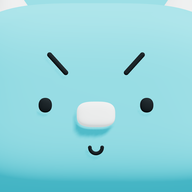
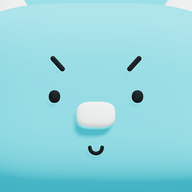
새 얼굴 깨두로 앱 아이콘·파비콘·링크 미리보기 다시 만듦 (공개 사이트 반영 대기)
Claude-Session: https://claude.ai/code/session_01XV2fnjBPvagJZXAqjhz2jr

diff --git a/sw.js b/sw.js
@@ -1,5 +1,5 @@
 // 오프라인에서도 열리도록: 처음 받은 파일(페이지·3D 엔진·글꼴)을 저장해 두고, 새 버전이 있으면 다음 방문 때 갱신
-const CACHE='sonssies-v18';
+const CACHE='sonssies-v19';
 const CORE=['./','./index.html','./manifest.webmanifest','./icon-192.png','./icon-512.png'];
 self.addEventListener('install',e=>{e.waitUntil(caches.open(CACHE).then(c=>c.addAll(CORE)));self.skipWaiting()});
 self.addEventListener('activate',e=>{e.waitUntil(caches.keys().then(ks=>Promise.all(ks.filter(k=>k!==CACHE).map(k=>caches.delete(k)))));self.clients.claim()});

diff --git a/tools/build_site.py b/tools/build_site.py
@@ -35,15 +35,15 @@ head='''<!doctype html>
 <meta name="theme-color" content="#e4ebeb" media="(prefers-color-scheme: light)">
 <meta name="theme-color" content="#141a1c" media="(prefers-color-scheme: dark)">
 <link rel="manifest" href="manifest.webmanifest">
-<link rel="icon" href="favicon.ico?v=2" sizes="any"><link rel="icon" href="favicon.png?v=2" type="image/png">
-<link rel="apple-touch-icon" href="apple-touch-icon.png?v=4">
+<link rel="icon" href="favicon.ico?v=3" sizes="any"><link rel="icon" href="favicon.png?v=3" type="image/png">
+<link rel="apple-touch-icon" href="apple-touch-icon.png?v=5">
 <meta name="apple-mobile-web-app-capable" content="yes">
 <meta name="apple-mobile-web-app-title" content="Sonssies">
 <meta property="og:type" content="website">
 <meta property="og:url" content="https://sonssies.com/">
 <meta property="og:title" content="Sonssies - 영혼의 단짝, 손시 만들기">
 <meta property="og:description" content="나만의 손시를 깨우고, 삶의 여정을 함께 나아가 보세요.">
-<meta property="og:image" content="https://sonssies.com/og.png?v=3">
+<meta property="og:image" content="https://sonssies.com/og.png?v=4">
 <meta name="twitter:card" content="summary_large_image">
 '''+open(os.path.join(ROOT,'splash','links.html'),encoding='utf8').read()
 i=s.index('<!-- 인트로') if '<!-- 인트로' in s else s.index('<div class="wrap">')   # 인트로부터 body에 넣어야 화면이 바로 그려짐
